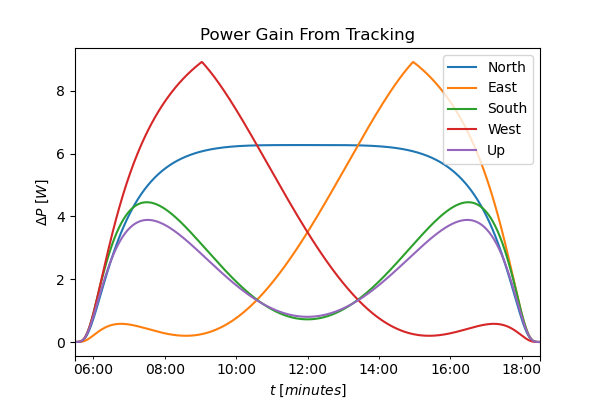
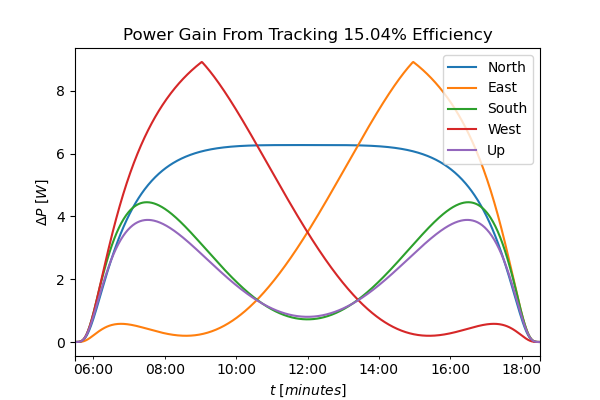
update fig titles

Changed region(s): [[0.21, 0.06, 0.81, 0.12]]

diff --git a/SolarModel/SolarModel.py b/SolarModel/SolarModel.py
@@ -65,7 +65,7 @@ plt.savefig(fig_dir+'solar_irradience_power_{:.2f}eff.png'.format(eff*100))
 
 fig,ax = plt.subplots(figsize=(6,4))
 P_diff.plot(ax=ax).legend(loc='upper right')
-ax.set_title('Power Gain From Tracking')
+ax.set_title('Power Gain From Tracking {:.2f}% Efficiency'.format(eff*100))
 ax.set_xlabel('$t\ [minutes]$')
 ax.set_ylabel('$\Delta P\ [W]$')
 
